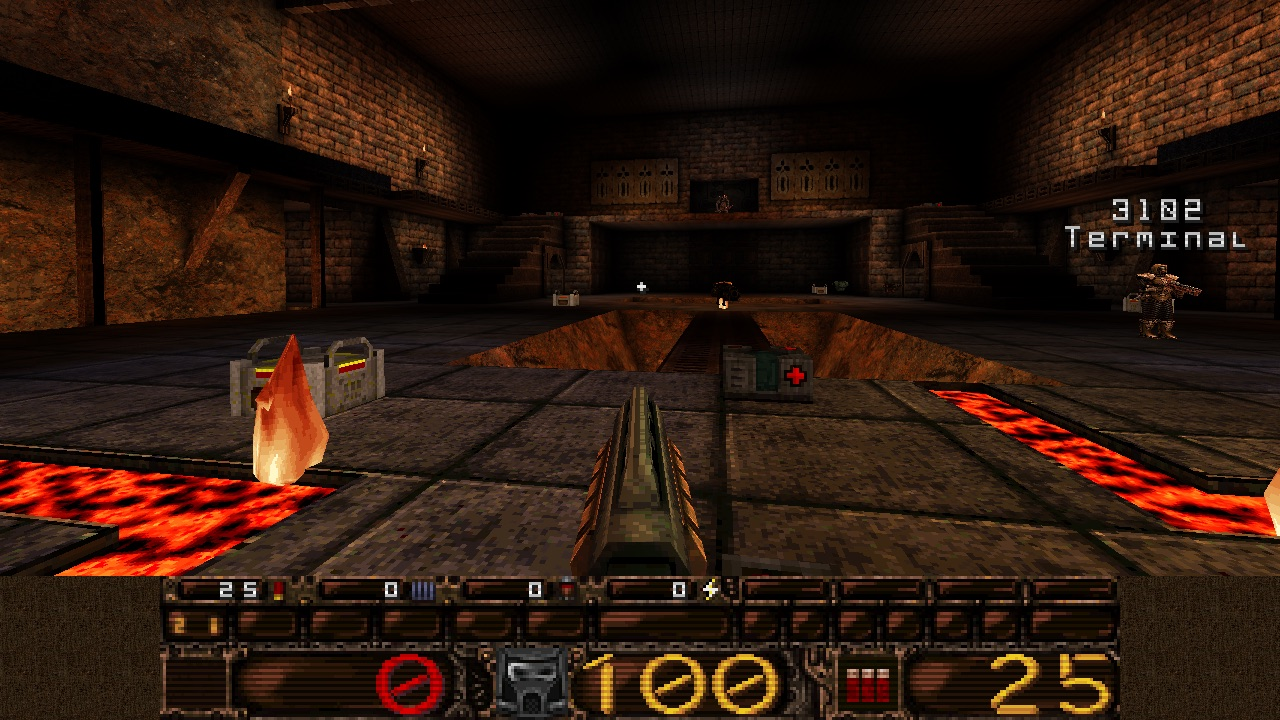
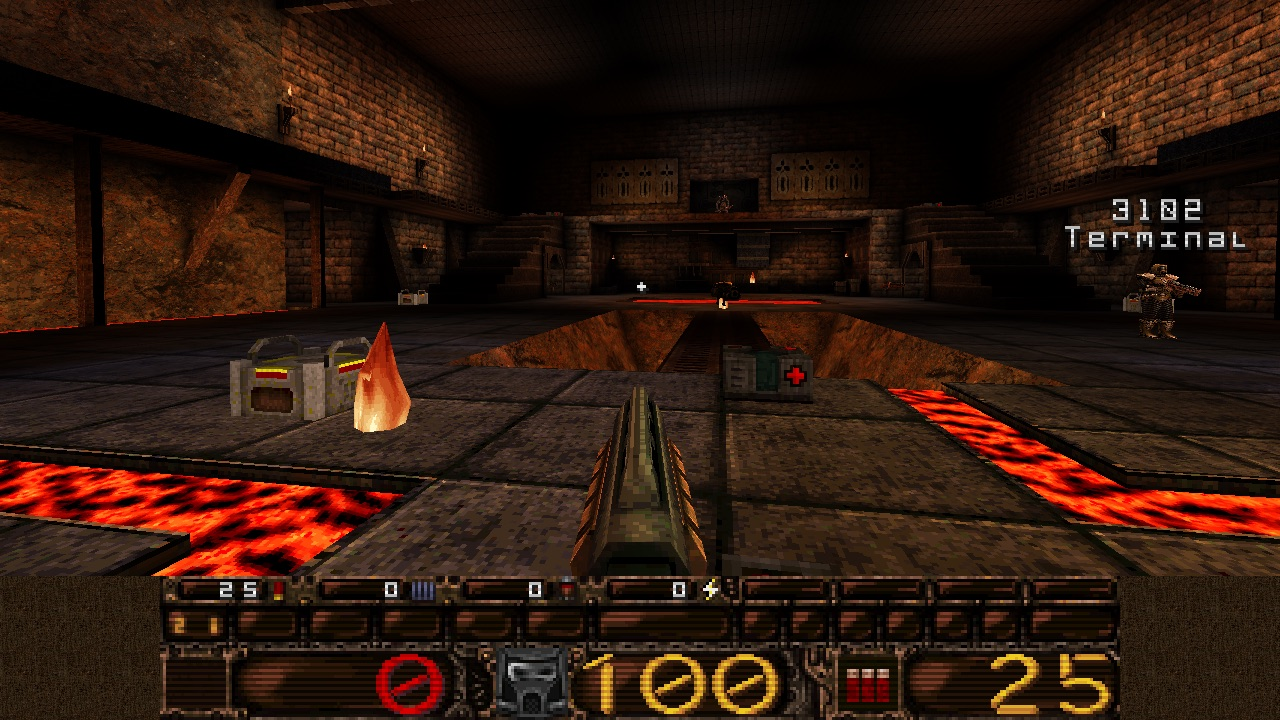
feat(forge): Furnish the side rooms as working forge rooms
The three side rooms off Forge's hall get the detail pass the hall had.

- The undercrofts, west and east (mirrored), become smithies:
  - a workbench under a tool rack (tongs and hammers);
  - a quench trough;
  - a hooded hearth with its fire, between two anvils;
  - wall pipes on brackets;
  - barrels, crates, and coal and ore bins;
  - chains;
  - beams and wall plates on the ceiling;
  - wall cups.
- The crypt under the altar becomes the forge-master's workshop: a bench
  and rack, a hearth, an anvil, a trough, a coal bin, barrels, crates,
  chains, beams and wall cups.
- Every piece stands off the spawn grids, doorways, stair landings,
  items and supply spots, against a wall or in a corner. The grid,
  pickups, supply, fixtures, walkways, walkto and fixture-clearance checks
  all hold.
- Light, measured per room (scratch room table in the task's evidence):
  - the undercrofts go from a mean of 37 to 66, with 4% of their floor
    at 200 or more;
  - the crypt's hearth is lit low, so the room holds 6% at 200 or more
    (1% before);
  - the hall is unchanged at 7%.
- Forge's screenshots and plan re-rendered.

diff --git a/tools/arena_maps.py b/tools/arena_maps.py
@@ -763,6 +763,235 @@ def _forge_sconces():
     return out
 
 
+# --- Forge's side rooms: working forge furniture --------------------------
+#
+# Built from boxes, hulls and shafts. Every piece stands off the rooms'
+# spawn grids, doorways, stair landings, items and supply spots, against
+# a wall or in a corner, so every route stays open.
+
+WOOD = "woodbark64"
+IRON = "met_blc_block"
+STEEL = "met_gry_beam"
+COAL = "darkrock"
+ORE = "med_rock4"
+
+
+def _anvil(cx, cy, z, flip=False):
+    """An anvil: foot, waist, face and horn (pointing +x, or -x flipped)."""
+    s = -1 if flip else 1
+    face = sorted((cx - 14 * s, cx + 10 * s))
+    out = [("box", dict(lo=(cx - 9, cy - 9, z), hi=(cx + 9, cy + 9, z + 16), tex=IRON)),
+           ("box", dict(lo=(cx - 5, cy - 6, z + 16), hi=(cx + 5, cy + 6, z + 24), tex=IRON)),
+           ("box", dict(lo=(face[0], cy - 8, z + 24), hi=(face[1], cy + 8, z + 34), tex=STEEL)),
+           ("hull", dict(points=[(cx + 10 * s, cy + d, zz) for d in (-6, 6) for zz in (z + 26, z + 34)]
+                         + [(cx + 24 * s, cy, z + 32), (cx + 24 * s, cy, z + 30)], tex=STEEL))]
+    return out
+
+
+def _bench(x0, y0, x1, y1, z, h=36):
+    """A workbench: a plank top on four iron legs, a shelf low between them."""
+    out = [("box", dict(lo=(x0, y0, z + h - 4), hi=(x1, y1, z + h), tex=WOOD)),
+           ("box", dict(lo=(x0 + 4, y0 + 4, z + 8), hi=(x1 - 4, y1 - 4, z + 10), tex=WOOD))]
+    for x in (x0 + 2, x1 - 6):
+        for y in (y0 + 2, y1 - 6):
+            out.append(("box", dict(lo=(x, y, z), hi=(x + 4, y + 4, z + h - 4), tex=IRON)))
+    return out
+
+
+def _trough(x0, y0, x1, y1, z, h=24):
+    """A quench trough: an iron box, its dark water 6 under the rim."""
+    t = 3
+    return [("box", dict(lo=(x0, y0, z), hi=(x1, y1, z + h - 6), tex="met_gry_slat")),
+            ("box", dict(lo=(x0, y0, z), hi=(x1, y0 + t, z + h), tex=RIM)),
+            ("box", dict(lo=(x0, y1 - t, z), hi=(x1, y1, z + h), tex=RIM)),
+            ("box", dict(lo=(x0, y0 + t, z), hi=(x0 + t, y1 - t, z + h), tex=RIM)),
+            ("box", dict(lo=(x1 - t, y0 + t, z), hi=(x1, y1 - t, z + h), tex=RIM))]
+
+
+def _bin(x0, y0, x1, y1, z, seed, tex, h=20):
+    """A coal or ore bin: low iron walls round a heap of lumps."""
+    t = 3
+    cx, cy = (x0 + x1) // 2, (y0 + y1) // 2
+    return [("box", dict(lo=(x0, y0, z), hi=(x1, y0 + t, z + h), tex=RIM)),
+            ("box", dict(lo=(x0, y1 - t, z), hi=(x1, y1, z + h), tex=RIM)),
+            ("box", dict(lo=(x0, y0 + t, z), hi=(x0 + t, y1 - t, z + h), tex=RIM)),
+            ("box", dict(lo=(x1 - t, y0 + t, z), hi=(x1, y1 - t, z + h), tex=RIM)),
+            ("box", dict(lo=(x0 + t, y0 + t, z), hi=(x1 - t, y1 - t, z + h - 8), tex=tex)),
+            ("rocks", dict(seed=seed, cx=cx, cy=cy, z0=z + h - 10, radius=min(x1 - x0, y1 - y0) // 4,
+                           count=4, size=12, tex=tex))]
+
+
+def _barrel(cx, cy, z, h=40):
+    """A barrel: a wooden octagon with two iron hoops."""
+    return [("shaft", dict(cx=cx, cy=cy, r=12, z0=z, z1=z + h, tex=WOOD)),
+            ("shaft", dict(cx=cx, cy=cy, r=13, z0=z + 8, z1=z + 11, tex=RIM)),
+            ("shaft", dict(cx=cx, cy=cy, r=13, z0=z + h - 11, z1=z + h - 8, tex=RIM))]
+
+
+def _crate(x0, y0, z, size=32, tex="met_brn_blockl"):
+    return [("box", dict(lo=(x0, y0, z), hi=(x0 + size, y0 + size, z + size),
+                         tex={"side": tex, "top": WOOD, "bottom": WOOD}))]
+
+
+def _rack(axis, a0, a1, at, face, z):
+    """A tool rack on a wall: a plank, and tongs and hammers hanging from it."""
+    s = 1 if face == "+" else -1
+    o0, o1 = sorted((at, at + 2 * s))
+    out = []
+
+    def b(u0, u1, v0, v1, za, zb, tex):
+        lo = (u0, v0, za) if axis == "x" else (v0, u0, za)
+        hi = (u1, v1, zb) if axis == "x" else (v1, u1, zb)
+        return ("box", dict(lo=lo, hi=hi, tex=tex))
+    out.append(b(a0, a1, o0, o1, z, z + 8, WOOD))
+    for i, u in enumerate(range(a0 + 12, a1 - 8, 20)):
+        v0, v1 = sorted((at + 2 * s, at + 5 * s))
+        out.append(b(u, u + 2, v0, v1, z - 22, z, STEEL))             # handle
+        if i % 2:
+            out.append(b(u - 3, u + 5, v0, v1, z - 28, z - 22, IRON))  # hammer head
+        else:
+            out.append(b(u - 2, u + 4, v0, v1, z - 30, z - 22, STEEL))  # tongs' jaws
+    return out
+
+
+def _chain(x, y, z0, z1):
+    """A chain hanging from the ceiling, a hook at its end."""
+    return [("box", dict(lo=(x - 1, y - 1, z0), hi=(x + 1, y + 1, z1), tex=STEEL)),
+            ("box", dict(lo=(x - 3, y - 1, z0 - 4), hi=(x + 3, y + 1, z0), tex=STEEL))]
+
+
+def _hearth(axis, a0, a1, at, face, z, ceil, light=220):
+    """A small hearth against a wall: a stone base with its fire, a hood up
+    to the ceiling. (pieces, the fire's light)."""
+    s = 1 if face == "+" else -1
+    d0, d1 = sorted((at, at + 32 * s))
+    hood_out = at + 40 * s
+
+    def xy(u, v):
+        return (u, v) if axis == "x" else (v, u)
+    lo, hi = xy(a0, d0), xy(a1, d1)
+    out = [("box", dict(lo=(min(lo[0], hi[0]), min(lo[1], hi[1]), z),
+                        hi=(max(lo[0], hi[0]), max(lo[1], hi[1]), z + 28), tex="med_csl_brk9_1"))]
+    pts = []
+    for u in (a0 - 4, a1 + 4):
+        for v, zz in ((at, z + 72), (at, ceil), (hood_out, ceil), (at + 12 * s, z + 72)):
+            x, y = xy(u, v)
+            pts.append((x, y, zz))
+    out.append(("hull", dict(points=pts, tex=RIM)))
+    cx, cy = xy((a0 + a1) // 2, at + 18 * s)
+    out.append(("brazier", dict(x=cx, y=cy, z=z + 28)))
+    return out, (cx, cy, z + 56, light, "1 0.6 0.3", 1.0 if light >= 200 else 1.5)
+
+
+def _pipe(axis, a0, a1, at, face, z):
+    """A pipe along a wall on brackets."""
+    s = 1 if face == "+" else -1
+    v0, v1 = sorted((at + 2 * s, at + 10 * s))
+    w0, w1 = sorted((at, at + 2 * s))
+
+    def b(u0, u1, p0, p1, za, zb, tex):
+        lo = (u0, p0, za) if axis == "x" else (p0, u0, za)
+        hi = (u1, p1, zb) if axis == "x" else (p1, u1, zb)
+        return ("box", dict(lo=lo, hi=hi, tex=tex))
+    out = [b(a0, a1, v0, v1, z, z + 8, "met_brn_trim64")]
+    for u in range(a0 + 16, a1 - 15, 128):
+        out.append(b(u, u + 4, w0, w1, z - 4, z + 12, IRON))
+    return out
+
+
+def _forge_workshops():
+    """The three side rooms' furniture and their lights:
+      the west undercroft (x -1088..-768, floor -64, ceiling 112), a smithy;
+      the east undercroft (x 800..1120), its mirror (x -> 32 - x);
+      the crypt under the altar (x -320..320, y 1344..1600, floor 0,
+      ceiling 176), a forge-master's workshop."""
+    west, lights = [], []
+    z, ceil = -64, 112
+    # the outer (west) wall: a workbench under a tool rack, a quench trough
+    west += _bench(-1084, 296, -1048, 392, z)
+    west += _rack("y", 296, 392, -1088, "+", z + 76)
+    west += _trough(-1084, 432, -1052, 536, z)
+    # the inner (east) wall: a hearth in the middle, anvils either side
+    h, hl = _hearth("y", 384, 448, -768, "-", z, ceil)
+    west += h
+    lights.append(hl)
+    west += _anvil(-802, 260, z) + _anvil(-802, 572, z)
+    west += _pipe("y", 16, 368, -768, "-", z + 132)
+    west += _pipe("y", 464, 816, -768, "-", z + 132)
+    # the south end: barrels, crates and a coal bin, off the stair's landing
+    west += _barrel(-796, 28, z) + _barrel(-796, 58, z) + _barrel(-824, 40, z, h=32)
+    west += _crate(-904, 8, z) + _crate(-904, 40, z, size=24) + _crate(-872, 8, z, size=24)
+    west += _bin(-944, 140, -880, 204, z, 901, COAL)
+    # the north end: an ore bin, crates, a barrel
+    west += _bin(-944, 640, -880, 704, z, 902, ORE)
+    west += _crate(-832, 776, z) + _crate(-800, 776, z, size=24) + _crate(-832, 776, z + 32, size=24)
+    west += _barrel(-796, 740, z)
+    # chains from the beams, over the corners, out of the grid
+    west += _chain(-1056, 160, z + 64, ceil - 16) + _chain(-800, 680, z + 72, ceil - 16)
+    west += _chain(-800, 150, z + 80, ceil - 16)
+    # beams across the ceiling
+    for y in (128, 416, 704):
+        west.append(("beam", dict(a=(-1088, y, ceil - 8), b=(-768, y, ceil - 8), w=16, h=16,
+                                  tex=BEAM)))
+    west += [("box", dict(lo=(-1088, 32, ceil - 12), hi=(-1072, 800, ceil), tex=BEAM2)),
+             ("box", dict(lo=(-784, 32, ceil - 12), hi=(-768, 800, ceil), tex=BEAM2))]
+
+    def mirror(piece):
+        kind, a = piece
+        a = dict(a)
+        if kind == "box":
+            (x0, y0, z0), (x1, y1, z1) = a["lo"], a["hi"]
+            a["lo"], a["hi"] = (32 - x1, y0, z0), (32 - x0, y1, z1)
+        elif kind == "hull":
+            a["points"] = [(32 - x, y, zz) for x, y, zz in a["points"]]
+        elif kind in ("shaft",):
+            a["cx"] = 32 - a["cx"]
+        elif kind == "rocks":
+            a["cx"] = 32 - a["cx"]
+            a["seed"] += 50
+        elif kind == "brazier":
+            a["x"] = 32 - a["x"]
+        elif kind == "beam":
+            a["a"] = (32 - a["a"][0],) + a["a"][1:]
+            a["b"] = (32 - a["b"][0],) + a["b"][1:]
+        return (kind, a)
+    east = [mirror(p) for p in west]
+    lights += [(32 - x, y, zz, lv, c, w) for x, y, zz, lv, c, w in lights]
+
+    # the crypt under the altar: the forge-master's bench and hearth on the
+    # north wall, an anvil, stores in the corners by the way in
+    crypt = []
+    z, ceil = 0, 176
+    crypt += _bench(-136, 1560, -40, 1596, z)
+    crypt += _rack("x", -136, -40, 1600, "-", z + 76)
+    h, hl = _hearth("x", 40, 120, 1600, "-", z, ceil, light=120)   # a small room: lit low
+    crypt += h
+    lights.append(hl)
+    crypt += _anvil(-180, 1500, z)
+    crypt += _trough(-312, 1430, -280, 1520, z)
+    crypt += _bin(-312, 1360, -264, 1408, z, 903, COAL)
+    crypt += _barrel(296, 1380, z) + _barrel(296, 1410, z) + _barrel(268, 1394, z, h=32)
+    crypt += _crate(150, 1560, z) + _crate(182, 1568, z, size=24)
+    crypt += _chain(-180, 1440, z + 104, ceil - 16) + _chain(180, 1440, z + 112, ceil - 16)
+    for y in (1424, 1520):
+        crypt.append(("beam", dict(a=(-320, y, ceil - 8), b=(320, y, ceil - 8), w=16, h=16,
+                                   tex=BEAM)))
+    return west + east + crypt, lights
+
+
+def _forge_workshop_sconces():
+    out = []
+    for design, axis, u, at, face, z in (
+            ("cup", "y", 120, -1088, "+", 10), ("cup", "y", 712, -1088, "+", 10),
+            ("cup", "y", 200, -768, "-", 10), ("cup", "y", 632, -768, "-", 10),
+            ("cup", "y", 120, 1120, "-", 10), ("cup", "y", 712, 1120, "-", 10),
+            ("cup", "y", 200, 800, "+", 10), ("cup", "y", 632, 800, "+", 10),
+            ("cup", "y", 1560, -320, "+", 74), ("cup", "y", 1520, 320, "-", 74)):
+        out.append(("sconce", dict(design=design, axis=axis, u=u, at=at, face=face, z=z,
+                                   tex="met_brn_trim64")))
+    return out
+
+
 def _forge():
     areas = [
         {"id": "approach", "box": (-768, -576, 0, 768, -320, 512), "style": "hall", "role": "link"},
@@ -910,6 +1139,9 @@ def _forge():
         pieces.append(("alcove_torch", dict(axis="x", u=x, at=-576, face="+", z=72,
                                             tex="met_blc_trim32")))
     pieces += _forge_sconces()
+    # the side rooms: smithies in the undercrofts, a workshop in the crypt
+    shop, shop_lights = _forge_workshops()
+    pieces += shop + _forge_workshop_sconces()
     # arch frames round the tunnels' mouths under the twin staircases
     for x in (-512, -384, 384, 512):
         pieces.append(("arch", dict(axis="y", at=x, lo=1216, hi=1344, z0=0, spring=64, top=96,
@@ -969,6 +1201,7 @@ def _forge():
     # the hall's lava pits glow from inside
     lights += [(x, y, -48, 320, LAVA_LIGHT, 0.8) for x in (-72, 72)
                for y in (-120, 88, 552, 760)]
+    lights += shop_lights
     return {
         "name": "psqforge", "title": "psQuake Arena: Forge",
         # all its lava glows: light from every lava face (ericw surface
